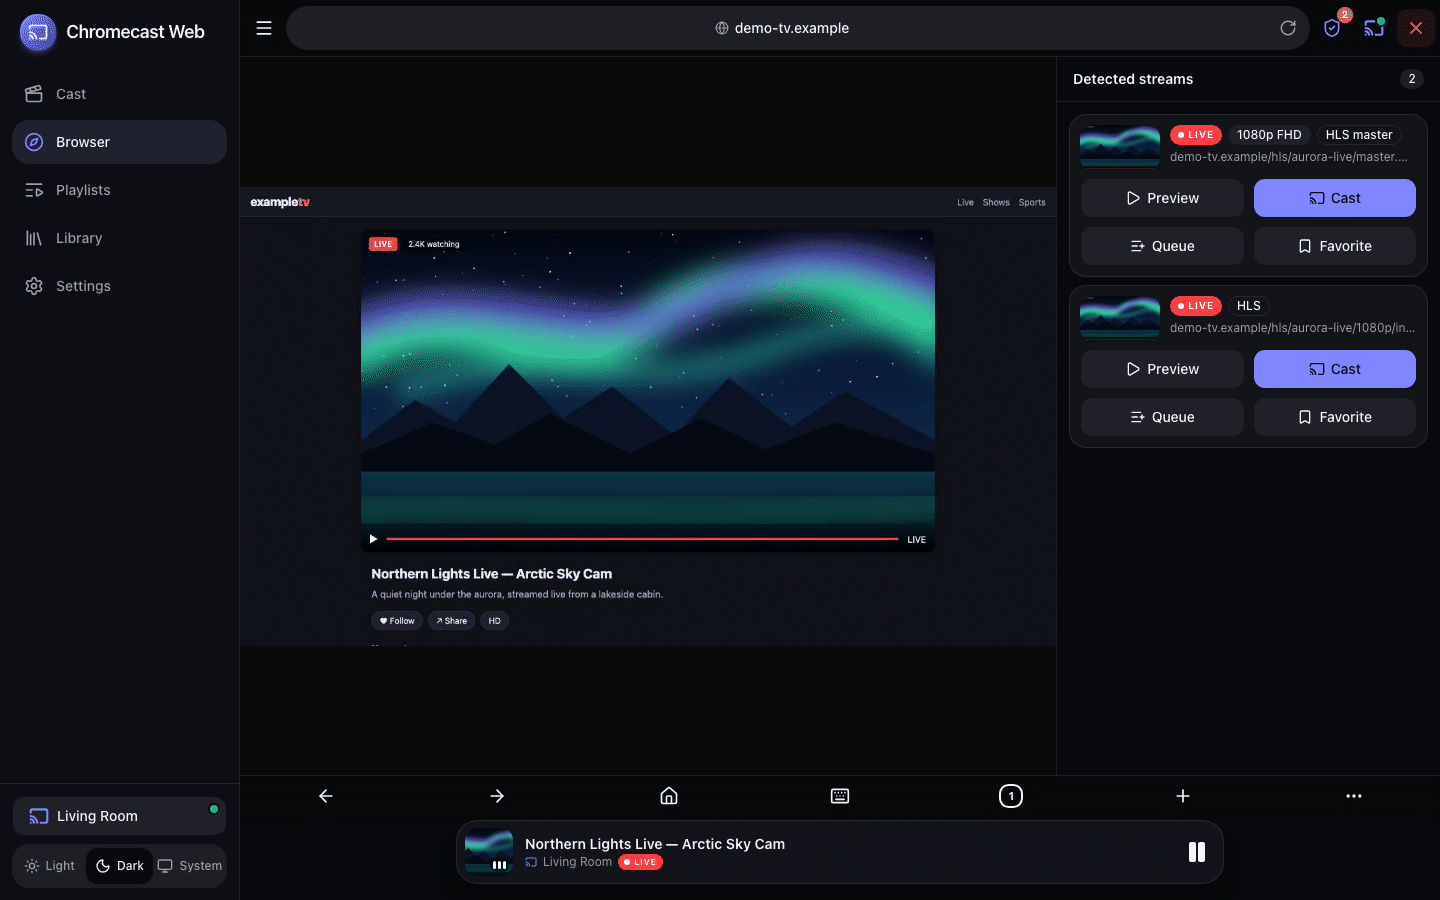
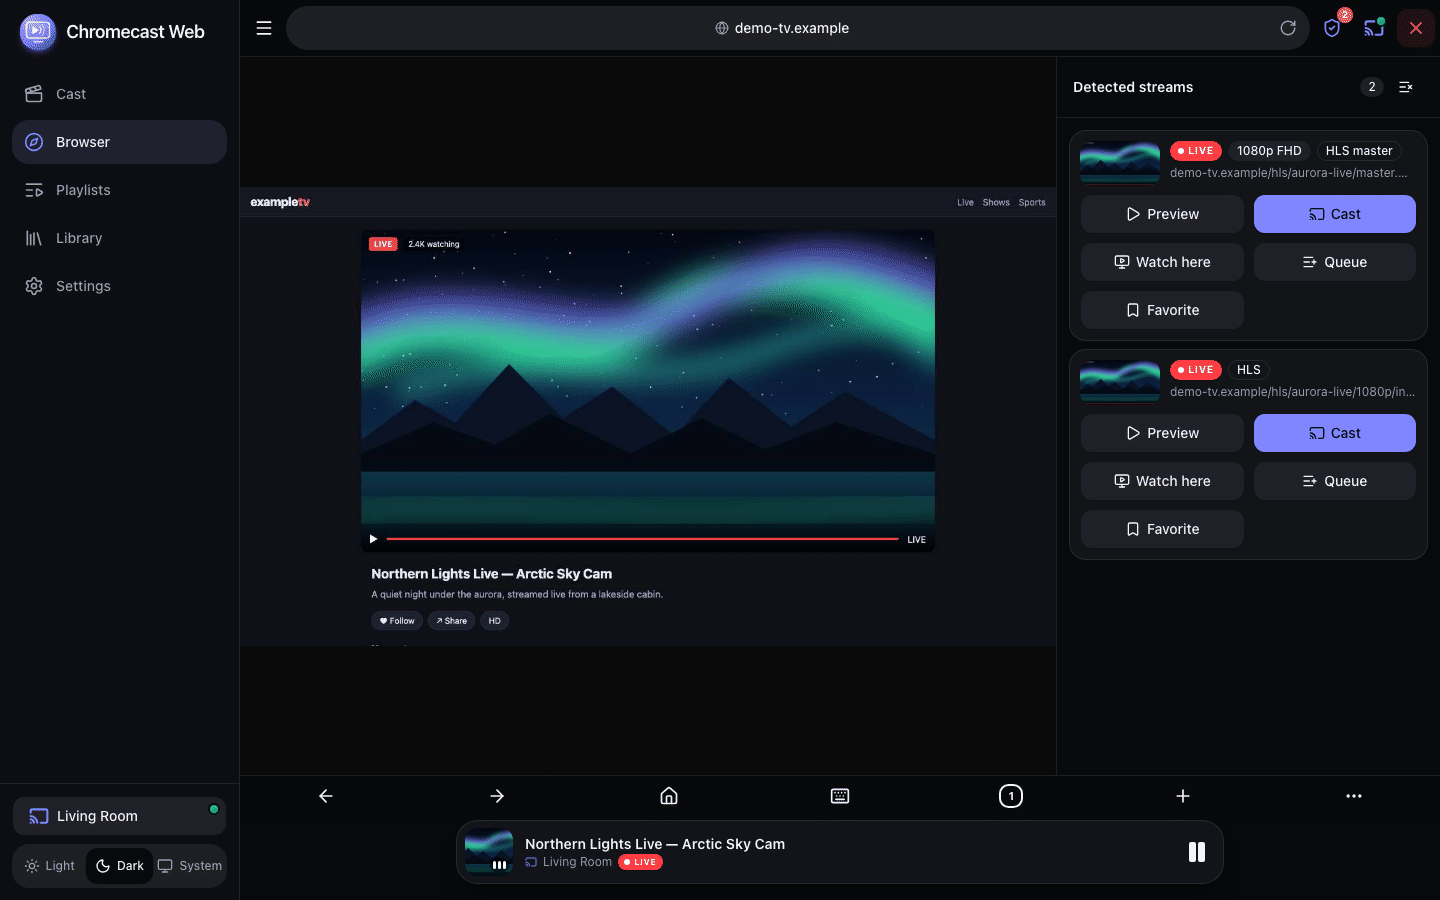
docs: screenshots and README for reconnecting, custom TV player and logs
- New screenshots: Now Playing while a live stream reconnects, and the custom
  receiver's idle / slow-loading / reconnecting screens (make screenshots).
- README (en/it): features, screenshot rows, a "live stream stopped" FAQ,
  LOG_LEVEL details; receiver screenshots in docs/CUSTOM_RECEIVER.md.

diff --git a/backend/scripts/screenshots.py b/backend/scripts/screenshots.py
@@ -12,6 +12,7 @@ from __future__ import annotations
 import argparse
 import asyncio
 import io
+import json
 import os
 import subprocess
 import sys
@@ -72,6 +73,25 @@ async def close_browser_sessions(base: str) -> None:
             await c.delete(f"/api/browser/sessions/{s['id']}")
 
 
+def recovering_ws(ws) -> None:  # playwright WebSocketRoute
+    """Relay the app's /ws, marking every playing device as recovering (attempt 1 of 3)."""
+    server = ws.connect_to_server()
+
+    def patch(message: str | bytes) -> None:
+        try:
+            msg = json.loads(message)
+        except (TypeError, ValueError):
+            ws.send(message)
+            return
+        if msg.get("type") == "state":
+            for player in msg["data"].get("players", {}).values():
+                if player.get("media_url"):
+                    player.update(player_state="BUFFERING", recovering=True, recovery_attempt=1)
+        ws.send(json.dumps(msg))
+
+    server.on_message(patch)
+
+
 async def run(base: str, content_port: int) -> dict[str, bytes]:
     sh = Shooter(base, content_port)
     async with httpx.AsyncClient(base_url=base) as c:
@@ -90,6 +110,22 @@ async def run(base: str, content_port: int) -> dict[str, bytes]:
         await page.keyboard.press("Escape")
         await page.wait_for_timeout(500)
 
+        await ctx.close()
+
+        # Now Playing while the server reloads a dropped live stream: the demo can't drop a stream on
+        # cue, so the state snapshots this page receives are patched to "recovering, attempt 1/3".
+        ctx = await sh.context(browser)
+        page = await ctx.new_page()
+        await page.route_web_socket("**/ws", recovering_ws)
+        await sh.goto(page, "/")
+        await page.get_by_label("Open player").filter(visible=True).first.click()
+        await page.get_by_text("attempt 1/3").filter(visible=True).first.wait_for(timeout=10_000)
+        await sh.shot(page, "now-playing-reconnecting")
+        await ctx.close()
+
+        ctx = await sh.context(browser)
+        page = await ctx.new_page()
+        await sh.goto(page, "/")
         await page.get_by_label("Device: Living Room").filter(visible=True).first.click()
         await sh.shot(page, "devices")
         await page.keyboard.press("Escape")
@@ -134,6 +170,37 @@ async def run(base: str, content_port: int) -> dict[str, bytes]:
         await sh.shot(page, "desktop-browser")
         await ctx.close()
         await close_browser_sessions(base)
+
+        # ---------------------------------------------------------------- TV, custom receiver (CAST_APP_ID)
+        # The CAF SDK only runs on a Cast device: it is blocked here (receiver.js stops after
+        # drawing its static UI) and each screen is selected by its body[data-state].
+        ctx = await browser.new_context(viewport={"width": 1280, "height": 720}, locale="en-US")
+        page = await ctx.new_page()
+        await page.route("**/www.gstatic.com/**", lambda route: route.fulfill(body="", content_type="text/javascript"))
+        await page.goto(f"{base}/receiver/")
+        await page.evaluate(
+            """() => {
+              document.getElementById('clock').textContent = '21:30';
+              document.getElementById('loading-title').textContent = 'Northern Lights Live — Arctic Sky Cam';
+              document.getElementById('error-detail').textContent = 'Northern Lights Live — Arctic Sky Cam';
+            }"""
+        )
+        for state, name, extra in (
+            ("idle", "receiver-idle", ""),
+            ("loading", "receiver-loading", "Slow connection, still loading…"),
+            ("error", "receiver-reconnecting", ""),
+        ):
+            await page.evaluate(
+                """([state, text]) => {
+                  document.body.dataset.state = state;
+                  document.body.classList.toggle('slow', !!text);
+                  if (text) document.getElementById('loading-text').textContent = text;
+                }""",
+                [state, extra],
+            )
+            await page.wait_for_timeout(600)
+            await sh.shot(page, name)
+        await ctx.close()
         await browser.close()
     return sh.png
 

diff --git a/README.it.md b/README.it.md
@@ -54,6 +54,12 @@ Chromecast, con un browser remoto integrato che trova da solo il video dentro le
 - Play/pausa, seek, ±10 s, *Vai al live*, volume, sottotitoli e tracce audio, precedente/successivo.
 - **Coda** lato server (riordina, rimuovi), **preferiti**, **cronologia**, **immagine di attesa** sulla TV.
 - Tutti i telefoni, tablet e PC aperti restano **sincronizzati in tempo reale** via WebSocket.
+- **Non sembra mai bloccato**: *Caricamento…*, *Connessione lenta…* e *Riconnessione… tentativo 1/3* direttamente
+  sul player.
+- **Le dirette ripartono da sole**: se il Chromecast perde una diretta (un segmento bloccato, un intoppo del CDN) il
+  server la ricarica, fino a 3 volte, prima di arrendersi.
+- **Player TV personalizzato** opzionale ([configurazione](docs/CUSTOM_RECEIVER.md)): schermate di caricamento e
+  riconnessione sulla TV, overlay con titolo/LIVE e un buffer più paziente per le dirette HLS instabili.
 
 **Riproduce ciò che il Chromecast non legge**
 - **Proxy** integrato per gli stream che richiedono Referer, Cookie, User-Agent o header CORS.
@@ -79,12 +85,26 @@ Chromecast, con un browser remoto integrato che trova da solo il video dentro le
     <td align="center"><img src="docs/screenshots/settings.png" width="200" alt="Impostazioni"><br><sub>Impostazioni</sub></td>
     <td align="center"><img src="docs/screenshots/now-playing-light.png" width="200" alt="Tema chiaro"><br><sub>Tema chiaro</sub></td>
   </tr>
+  <tr>
+    <td align="center"><img src="docs/screenshots/now-playing-reconnecting.png" width="200" alt="In riproduzione durante la riconnessione"><br><sub>Diretta in riconnessione</sub></td>
+  </tr>
 </table>
 
 **Sulla TV** — la schermata di attesa mostrata quando non è in riproduzione nulla (puoi usare un'immagine tua in
 **Impostazioni**):
 
 <p align="center"><img src="backend/app/static/idle.jpg" width="100%" alt="Schermata di attesa sulla TV: l'icona di Chromecast Web con le onde del cast e &quot;Ready to cast&quot;"></p>
+
+<details>
+<summary><b>Sulla TV con il player personalizzato</b> (opzionale, <code>CAST_APP_ID</code>)</summary>
+
+![Player personalizzato: schermata di attesa con orologio](docs/screenshots/receiver-idle.png)
+![Player personalizzato: connessione lenta, caricamento in corso](docs/screenshots/receiver-loading.png)
+![Player personalizzato: flusso interrotto, riconnessione](docs/screenshots/receiver-reconnecting.png)
+
+<sub>Il testo sulla TV segue la lingua del Chromecast (italiano o inglese).</sub>
+
+</details>
 
 <details>
 <summary><b>Desktop</b></summary>
@@ -213,7 +233,7 @@ nell'app, in **Impostazioni**.
 | `ENABLE_PLAYWRIGHT` | `true` | Estrazione dalle pagine web e browser remoto (Chromium headless). |
 | `FILTERS_AUTO_UPDATE` | `true` | Scarica/aggiorna le liste predefinite di uBlock Origin ogni 24 ore; `false` = solo la lista di riserva inclusa. |
 | `AUDIO_LANGUAGE` | non impostata | Lingua audio preferita per gli stream HLS con più tracce audio (`it`, `ita`, `en`…); vuota = quella predefinita dello stream. |
-| `LOG_LEVEL` | `info` | `debug`, `info`, `warning`, `error`. |
+| `LOG_LEVEL` | `info` | `debug`, `info`, `warning`, `error`. Con `info` il log tiene i cambi di stato e i problemi (segmenti lenti/interrotti, errori del Chromecast, riconnessioni) e un riepilogo del proxy per ogni stream ogni minuto; `debug` aggiunge una riga per richiesta. |
 | `FFMPEG_PATH` | `ffmpeg` | Binario FFmpeg usato da `/restream`. |
 | `FFPROBE_PATH` | `ffprobe` accanto a `FFMPEG_PATH` | Binario FFprobe (riconoscimento codec). |
 | `BROWSER_MAX_SESSIONS` | `2` | Sessioni contemporanee del browser remoto. |
@@ -271,6 +291,18 @@ vulnerabilità in privato come descritto in [SECURITY.md](SECURITY.md).
 - Attiva **Forza proxy** per gli stream che richiedono Referer/Cookie o non hanno header CORS.
 - I formati che il Chromecast non decodifica (TS grezzo, RTMP, AVI, MPEG-2, Xvid…) passano da `/restream`:
   verifica che `ffmpeg` funzioni sul server (nell'immagine Docker è incluso). La ricodifica richiede un po' di CPU.
+</details>
+
+<details>
+<summary><b>Una diretta si è fermata dopo qualche minuto</b></summary>
+
+- Il server ricarica una diretta che il Chromecast ha perso (fino a 3 tentativi, mostrati come *Riconnessione…
+  tentativo n/3*). Se falliscono tutti, è la sorgente stessa a essere giù o a bloccarsi di continuo.
+- Il log dice quale dei due: un avviso `proxy … segment …: client gave up after …` o `live playlist … not advancing`
+  indica la sorgente/il CDN, mentre `receiver ERROR … detailedErrorCode=…` è il codice d'errore del Chromecast.
+  Con `LOG_LEVEL=debug` c'è una riga per segmento (dimensione, tempo al primo byte, tempo totale).
+- Il [player TV personalizzato](docs/CUSTOM_RECEIVER.md) opzionale ritenta di più i segmenti falliti e aspetta di
+  più prima di dare errore, così supera la maggior parte dei blocchi brevi.
 </details>
 
 <details>

diff --git a/README.md b/README.md
@@ -53,6 +53,11 @@ with a built-in remote browser that finds the video inside web pages for you.
 - Play/pause, seek, ±10 s, *Go live*, volume, subtitles and audio tracks, previous/next.
 - Server-side **queue** (reorder, remove), **favorites**, **history**, an **idle image** on the TV.
 - Every open phone, tablet and PC stays **in sync in real time** over WebSocket.
+- **Never looks frozen**: *Loading…*, *Slow connection…* and *Reconnecting… attempt 1/3* right on the player.
+- **Live streams come back on their own**: when the Chromecast drops a live stream (a stalled segment, a CDN hiccup)
+  the server reloads it, up to 3 times, before giving up.
+- Optional **custom TV player** ([setup](docs/CUSTOM_RECEIVER.md)): loading and reconnecting screens on the TV,
+  title/LIVE overlay and more patient buffering for flaky live HLS.
 
 **Plays what the Chromecast can't**
 - Built-in **proxy** for streams that need a Referer, Cookie, User-Agent or CORS headers.
@@ -77,11 +82,23 @@ with a built-in remote browser that finds the video inside web pages for you.
     <td align="center"><img src="docs/screenshots/settings.png" width="200" alt="Settings"><br><sub>Settings</sub></td>
     <td align="center"><img src="docs/screenshots/now-playing-light.png" width="200" alt="Light theme"><br><sub>Light theme</sub></td>
   </tr>
+  <tr>
+    <td align="center"><img src="docs/screenshots/now-playing-reconnecting.png" width="200" alt="Now Playing while reconnecting"><br><sub>Live stream reconnecting</sub></td>
+  </tr>
 </table>
 
 **On the TV** — the idle screen shown when nothing is playing (you can use your own image in **Settings**):
 
 <p align="center"><img src="backend/app/static/idle.jpg" width="100%" alt="Idle screen on the TV: the Chromecast Web icon with cast waves and &quot;Ready to cast&quot;"></p>
+
+<details>
+<summary><b>On the TV with the custom player</b> (optional, <code>CAST_APP_ID</code>)</summary>
+
+![Custom player: idle screen with clock](docs/screenshots/receiver-idle.png)
+![Custom player: slow connection, still loading](docs/screenshots/receiver-loading.png)
+![Custom player: stream interrupted, reconnecting](docs/screenshots/receiver-reconnecting.png)
+
+</details>
 
 <details>
 <summary><b>Desktop</b></summary>
@@ -208,7 +225,7 @@ default device, idle image, force proxy, ad blocking, popup policy — is set in
 | `ENABLE_PLAYWRIGHT` | `true` | Web-page extraction and the remote browser (headless Chromium). |
 | `FILTERS_AUTO_UPDATE` | `true` | Download/refresh uBlock Origin's default lists every 24 h; `false` = bundled fallback list only. |
 | `AUDIO_LANGUAGE` | unset | Preferred audio language for HLS streams with several audio tracks (`it`, `ita`, `en`…); unset = the stream's own default. |
-| `LOG_LEVEL` | `info` | `debug`, `info`, `warning`, `error`. |
+| `LOG_LEVEL` | `info` | `debug`, `info`, `warning`, `error`. At `info` the log keeps state changes and problems (slow/aborted segments, receiver errors, reconnects) and a per-stream proxy summary every minute; `debug` adds one line per request. |
 | `FFMPEG_PATH` | `ffmpeg` | FFmpeg binary used by `/restream`. |
 | `FFPROBE_PATH` | `ffprobe` next to `FFMPEG_PATH` | FFprobe binary (codec detection). |
 | `BROWSER_MAX_SESSIONS` | `2` | Concurrent remote-browser sessions. |
@@ -265,6 +282,18 @@ vulnerabilities privately as described in [SECURITY.md](SECURITY.md).
 - Enable **Force proxy** for streams that need a Referer/Cookie or lack CORS headers.
 - Formats the Chromecast can't decode (raw TS, RTMP, AVI, MPEG-2, Xvid…) go through `/restream`: make sure
   `ffmpeg` works on the server (it's included in the Docker image). Transcoding needs some CPU.
+</details>
+
+<details>
+<summary><b>A live stream stopped after a few minutes</b></summary>
+
+- The server reloads a live stream the Chromecast dropped (up to 3 tries, shown as *Reconnecting… attempt n/3*).
+  If all tries fail, the source itself is down or keeps stalling.
+- The log tells which: a `proxy … segment …: client gave up after …` or `live playlist … not advancing` warning
+  points at the source/CDN, and `receiver ERROR … detailedErrorCode=…` is the Chromecast's own error code. Run with
+  `LOG_LEVEL=debug` for one line per segment (size, time to first byte, total time).
+- The optional [custom TV player](docs/CUSTOM_RECEIVER.md) retries failed segments more and waits longer before
+  failing, which rides out most short stalls.
 </details>
 
 <details>

diff --git a/docs/CUSTOM_RECEIVER.md b/docs/CUSTOM_RECEIVER.md
@@ -24,6 +24,12 @@ plain HTML/CSS/JS, no build step, Google's CAF SDK loaded from `www.gstatic.com`
 | Idle | Google's backdrop | app name + clock; the idle image (Settings → idle image) is shown full screen with the clock |
 | Flaky live HLS | CAF defaults | larger resume buffer, more segment retries, explicit request timeouts (below) |
 
+<p align="center">
+  <img src="screenshots/receiver-idle.png" width="32%" alt="Idle screen with clock">
+  <img src="screenshots/receiver-loading.png" width="32%" alt="Slow connection, still loading">
+  <img src="screenshots/receiver-reconnecting.png" width="32%" alt="Stream interrupted, reconnecting">
+</p>
+
 The TV text language follows the device's `navigator.language` (Italian when it starts with `it`,
 English otherwise). The LOAD semantics stay those of the Default Media Receiver: the backend sends
 the same LOAD (`hlsSegmentFormat`, `hlsVideoSegmentFormat`, subtitle `tracks`, `textTrackStyle`,
